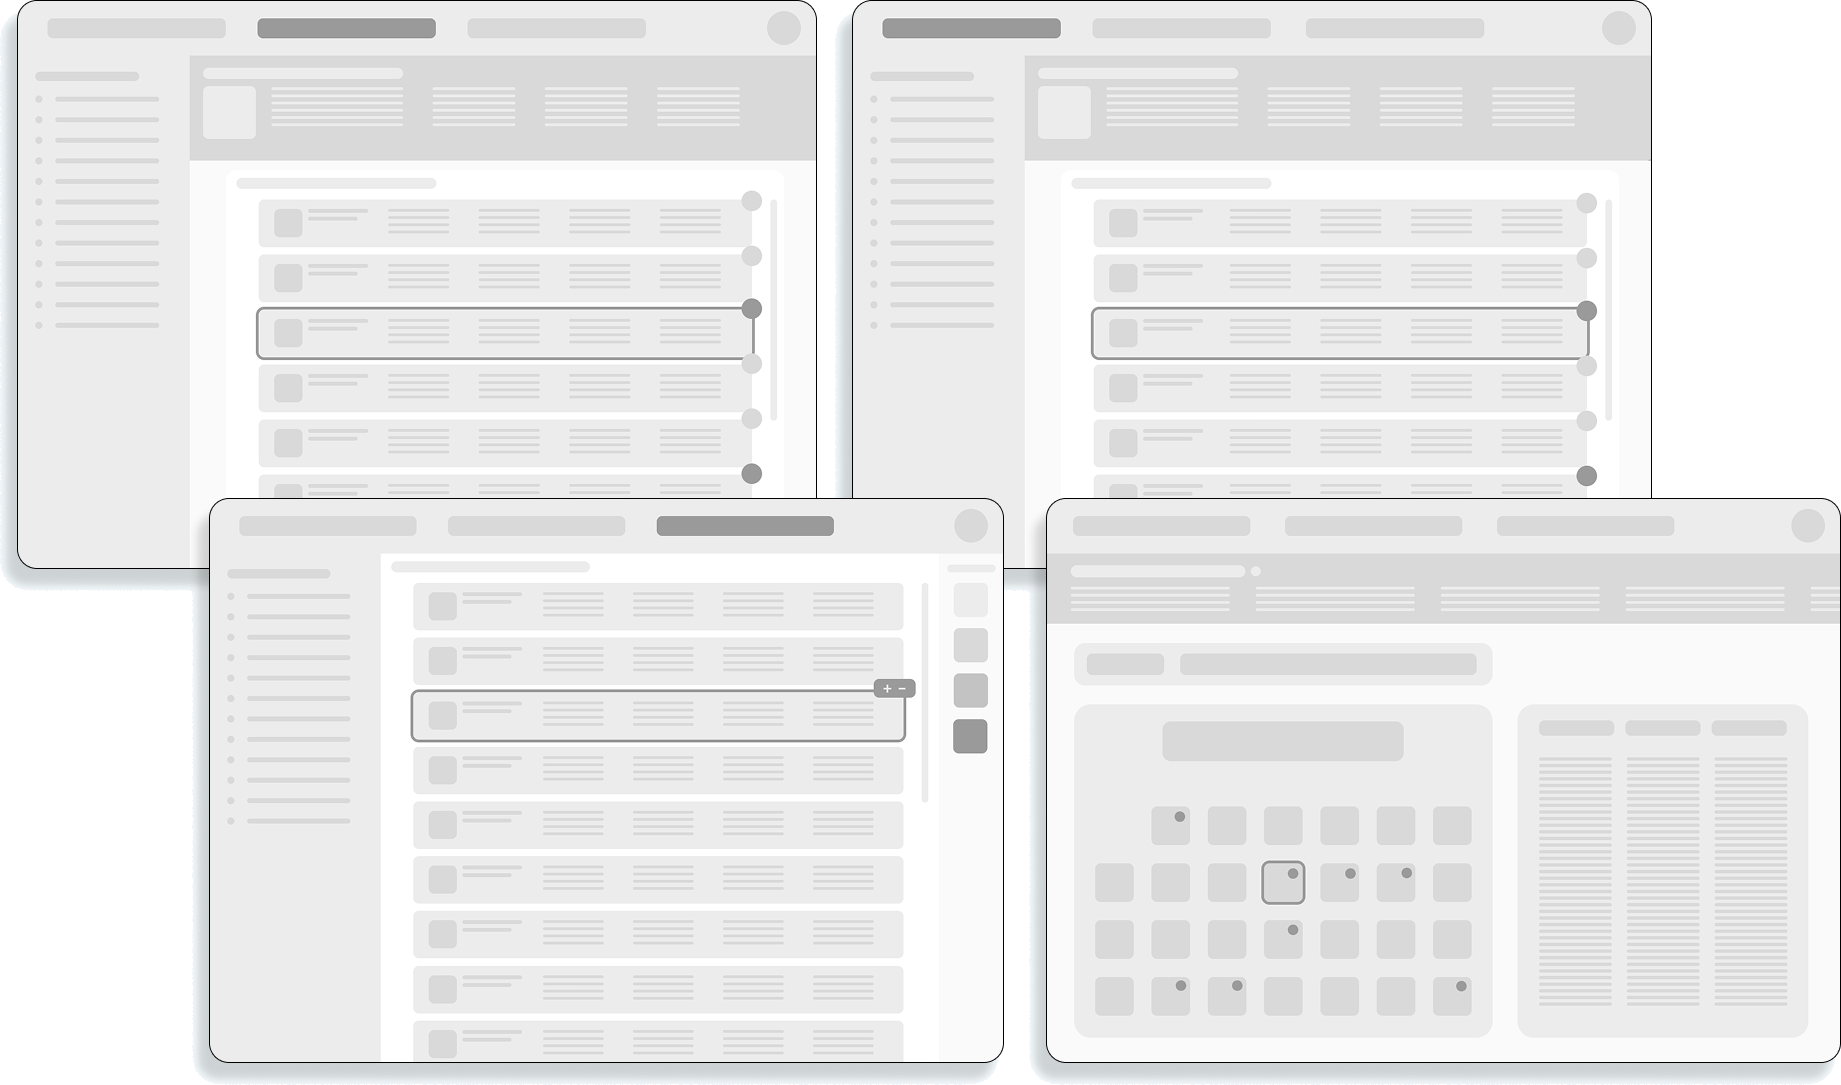
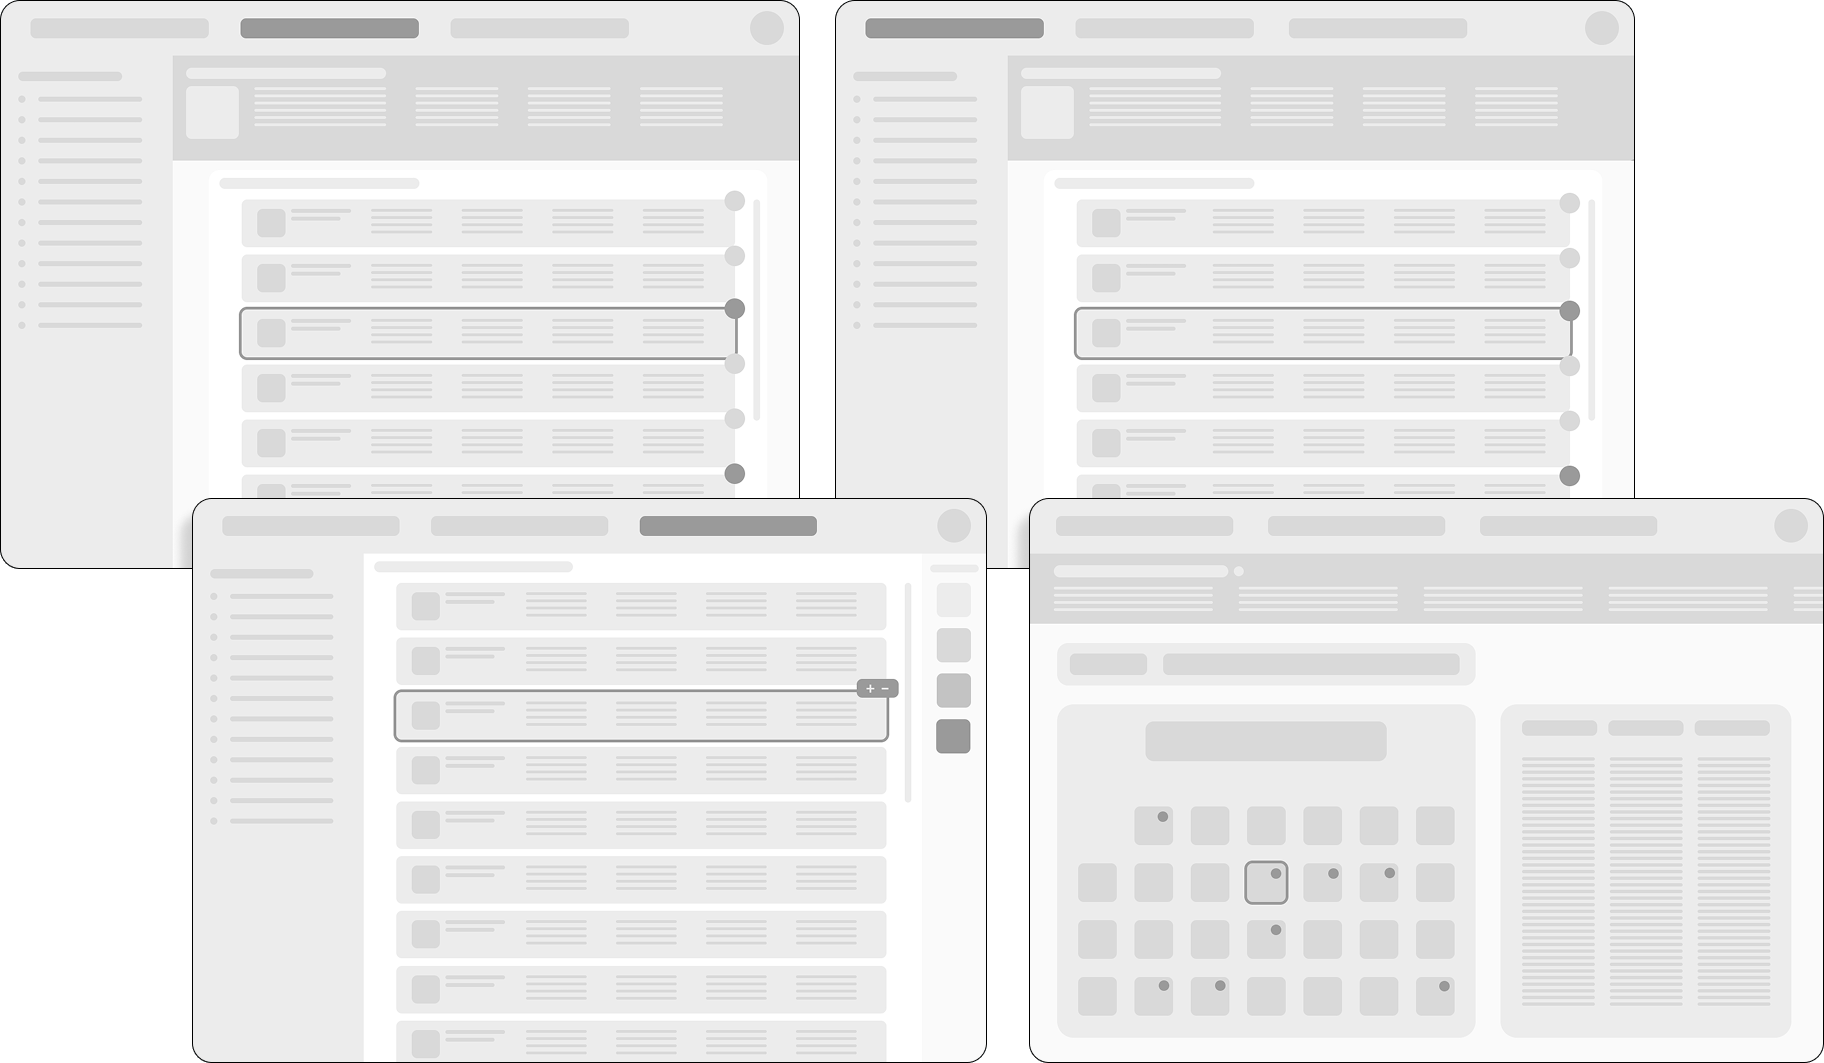
Fix badge positions and remove baked-in shadow halo on case study images
- Re-key the competitive-analysis and lowfi-mockup composites with a
  gradient-aware fill (steps through the soft shadow instead of
  measuring distance from a fixed background color) so the leftover
  light-gray bezel/shadow band around each card is gone in both themes,
  not just softened
- Move all four competitive-analysis number badges onto the actual
  top-left corner of their own screenshot (measured against the
  re-cropped image) instead of alternating sides, since several were
  landing off their card

Claude-Session: https://claude.ai/code/session_01CDBb5DtJCh317ZfsR89d5L

diff --git a/pages/project-1.html b/pages/project-1.html
@@ -178,11 +178,11 @@
       <h3 class="case-subheading">Research</h3>
       <div class="detail-grid">
         <div class="detail-image competitor-shot-wrap" style="aspect-ratio: auto; height: auto;">
-          <img class="case-shot bounce-img" style="aspect-ratio: 822 / 1098;" src="../assets/competitive-analysis.png" alt="four overlapping product screenshots making up the competitive audit board: AlphaSense, S&amp;P Capital IQ, Preqin, and Workday">
-          <span class="shot-badge" style="top: 3%; left: 3%;" aria-hidden="true">1</span>
-          <span class="shot-badge" style="top: 15%; right: 3%;" aria-hidden="true">2</span>
-          <span class="shot-badge" style="top: 40%; left: 3%;" aria-hidden="true">3</span>
-          <span class="shot-badge" style="top: 62%; right: 3%;" aria-hidden="true">4</span>
+          <img class="case-shot bounce-img" style="aspect-ratio: 803 / 1079;" src="../assets/competitive-analysis.png" alt="four overlapping product screenshots making up the competitive audit board: AlphaSense, S&amp;P Capital IQ, Preqin, and Workday">
+          <span class="shot-badge" style="top: 2%; left: 3%;" aria-hidden="true">1</span>
+          <span class="shot-badge" style="top: 18%; left: 43%;" aria-hidden="true">2</span>
+          <span class="shot-badge" style="top: 40%; left: 4%;" aria-hidden="true">3</span>
+          <span class="shot-badge" style="top: 61%; left: 23%;" aria-hidden="true">4</span>
           <ul class="competitor-legend">
             <li><span class="legend-num">1</span> AlphaSense</li>
             <li><span class="legend-num">2</span> S&amp;P Capital IQ</li>
@@ -312,7 +312,7 @@
       <h3 class="case-subheading">Iteration</h3>
       <div class="detail-grid">
         <div class="detail-image" style="aspect-ratio: auto;">
-          <img class="case-shot bounce-img" style="aspect-ratio: 1841 / 1085;" src="../assets/lowfi-mockups.png" alt="four low-fidelity wireframes: events list, company events view, reminder flow, and calendar toggle">
+          <img class="case-shot bounce-img" style="aspect-ratio: 1824 / 1063;" src="../assets/lowfi-mockups.png" alt="four low-fidelity wireframes: events list, company events view, reminder flow, and calendar toggle">
         </div>
         <div>
           <p class="mockup-note">We started low-fidelity, sketching where corporate events should even
